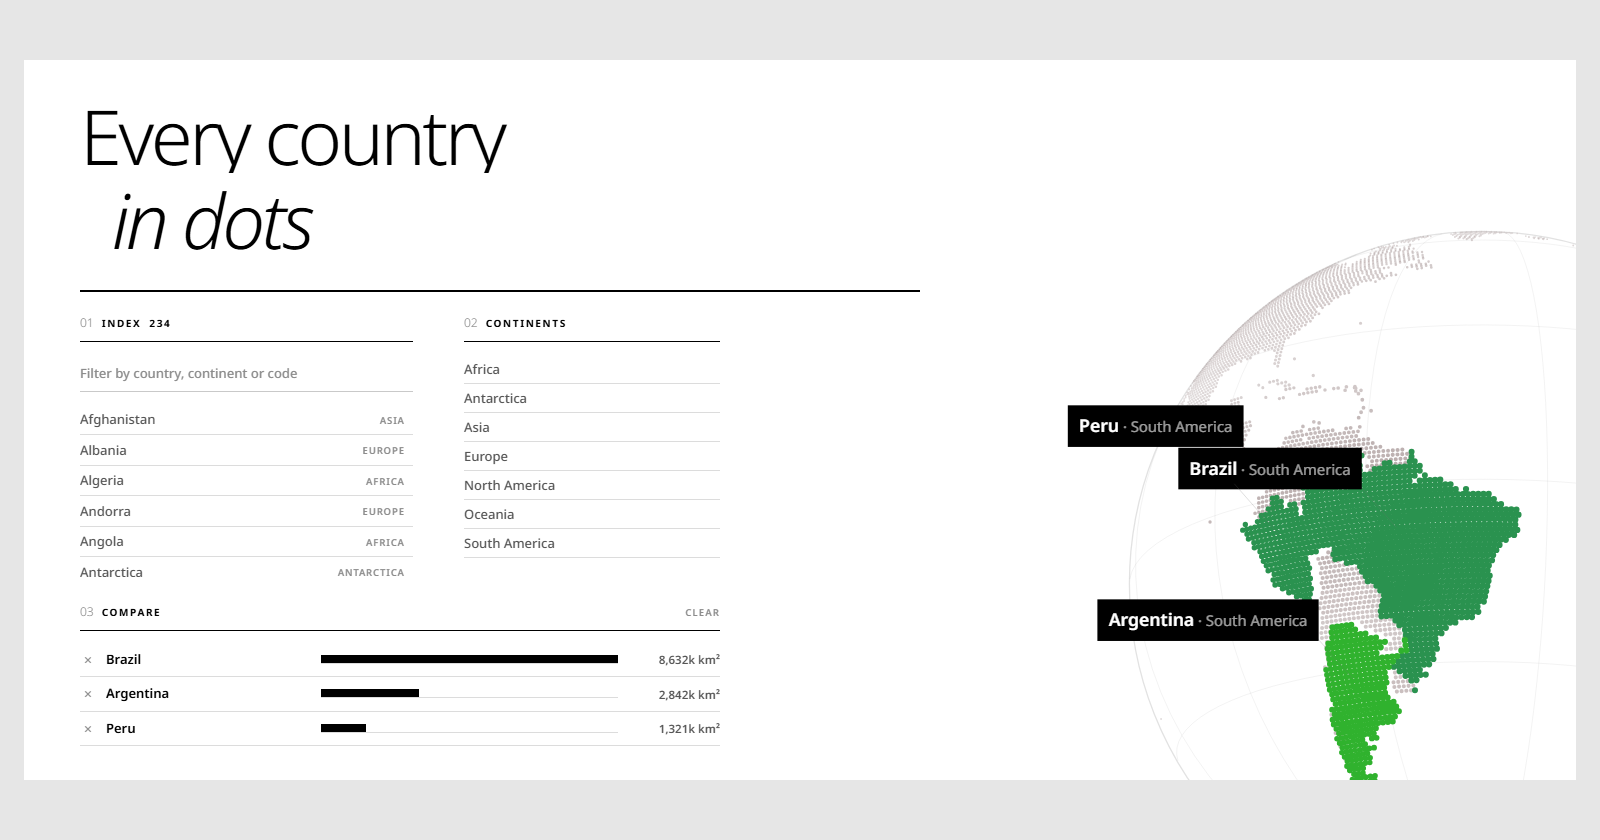
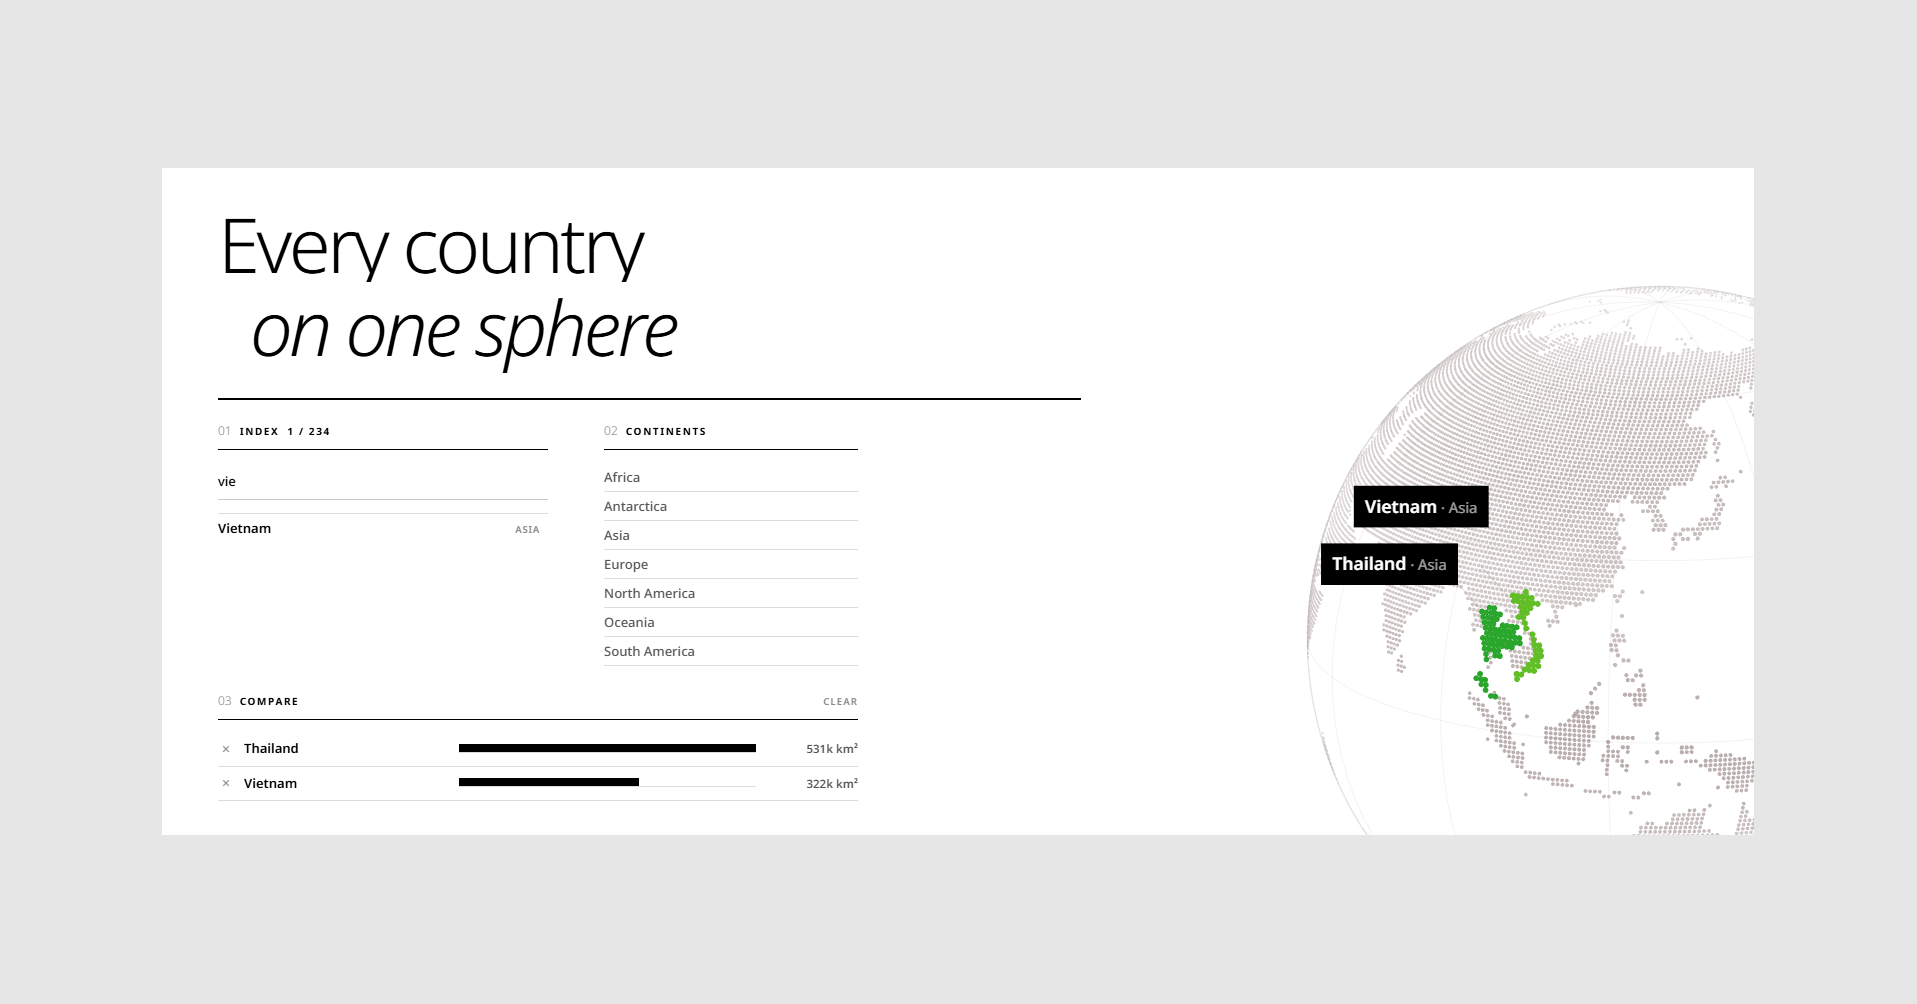
New social preview
A hand-taken shot of the desktop layout: Thailand and Vietnam pinned, the
filter mid-use. Padded top and bottom to 1.91:1 with the page's own ground
colour — the margins are already that exact grey, so the padding cannot be
seen, and the ratio is the one the crawlers lay out for.

diff --git a/index.html b/index.html
@@ -11,12 +11,12 @@
     <meta name="color-scheme" content="light" />
 
     <!--
-      The social preview. `og.png` is a real screenshot of this page with
-      ?pin=Brazil,Argentina,Peru open, because the one thing a static preview
-      has to carry is the idea: three countries lit out of a grey planet, and
-      their areas as bars underneath. Absolute URLs — a relative og:image is
-      resolved inconsistently, and by the crawler that gets it wrong it is
-      simply dropped. Regenerate with `npm run og`.
+      The social preview. `og.png` is a real screenshot of this page, because
+      the one thing a static preview has to carry is the idea: countries lit
+      out of a grey planet, with their areas as bars underneath. Absolute
+      URLs — a relative og:image is resolved inconsistently, and by the
+      crawler that gets it wrong it is simply dropped. The README has a
+      headless-Chrome recipe for retaking it.
     -->
     <meta property="og:type" content="website" />
     <meta property="og:url" content="https://dotted-globe-card.vercel.app/" />
@@ -26,11 +26,11 @@
       content="All 234 countries drawn from real borders on a canvas globe. Pin any of them to compare how big they actually are. No framework, no build step."
     />
     <meta property="og:image" content="https://dotted-globe-card.vercel.app/og.png" />
-    <meta property="og:image:width" content="1600" />
-    <meta property="og:image:height" content="840" />
+    <meta property="og:image:width" content="1917" />
+    <meta property="og:image:height" content="1004" />
     <meta
       property="og:image:alt"
-      content="A dotted globe with Brazil, Argentina and Peru lit in green, and a bar chart of their areas."
+      content="A dotted globe with Thailand and Vietnam lit in green, and a bar chart of their areas."
     />
     <meta name="twitter:card" content="summary_large_image" />
     <meta name="twitter:title" content="Terra Index — every country on Earth, in dots" />

diff --git a/README.md b/README.md
@@ -43,9 +43,10 @@ not ES modules, precisely so `file://` works too.
 Names are matched exactly as they appear in the list, up to five, and anything
 unrecognised is ignored rather than treated as an error.
 
-The social preview image is a screenshot of exactly that, taken with headless
-Chrome against a local server — the point of the picture is the idea, and the
-idea is three countries lit out of a grey planet with their areas underneath:
+The social preview image is a screenshot of exactly that — the point of the
+picture is the idea, and the idea is countries lit out of a grey planet with
+their areas underneath. To retake it with headless Chrome against a local
+server:
 
 ```bash
 chrome --headless=new --disable-gpu --hide-scrollbars   --window-size=1600,840 --virtual-time-budget=4500 --screenshot=og.png   "http://localhost:3000/?pin=Brazil,Argentina,Peru"
